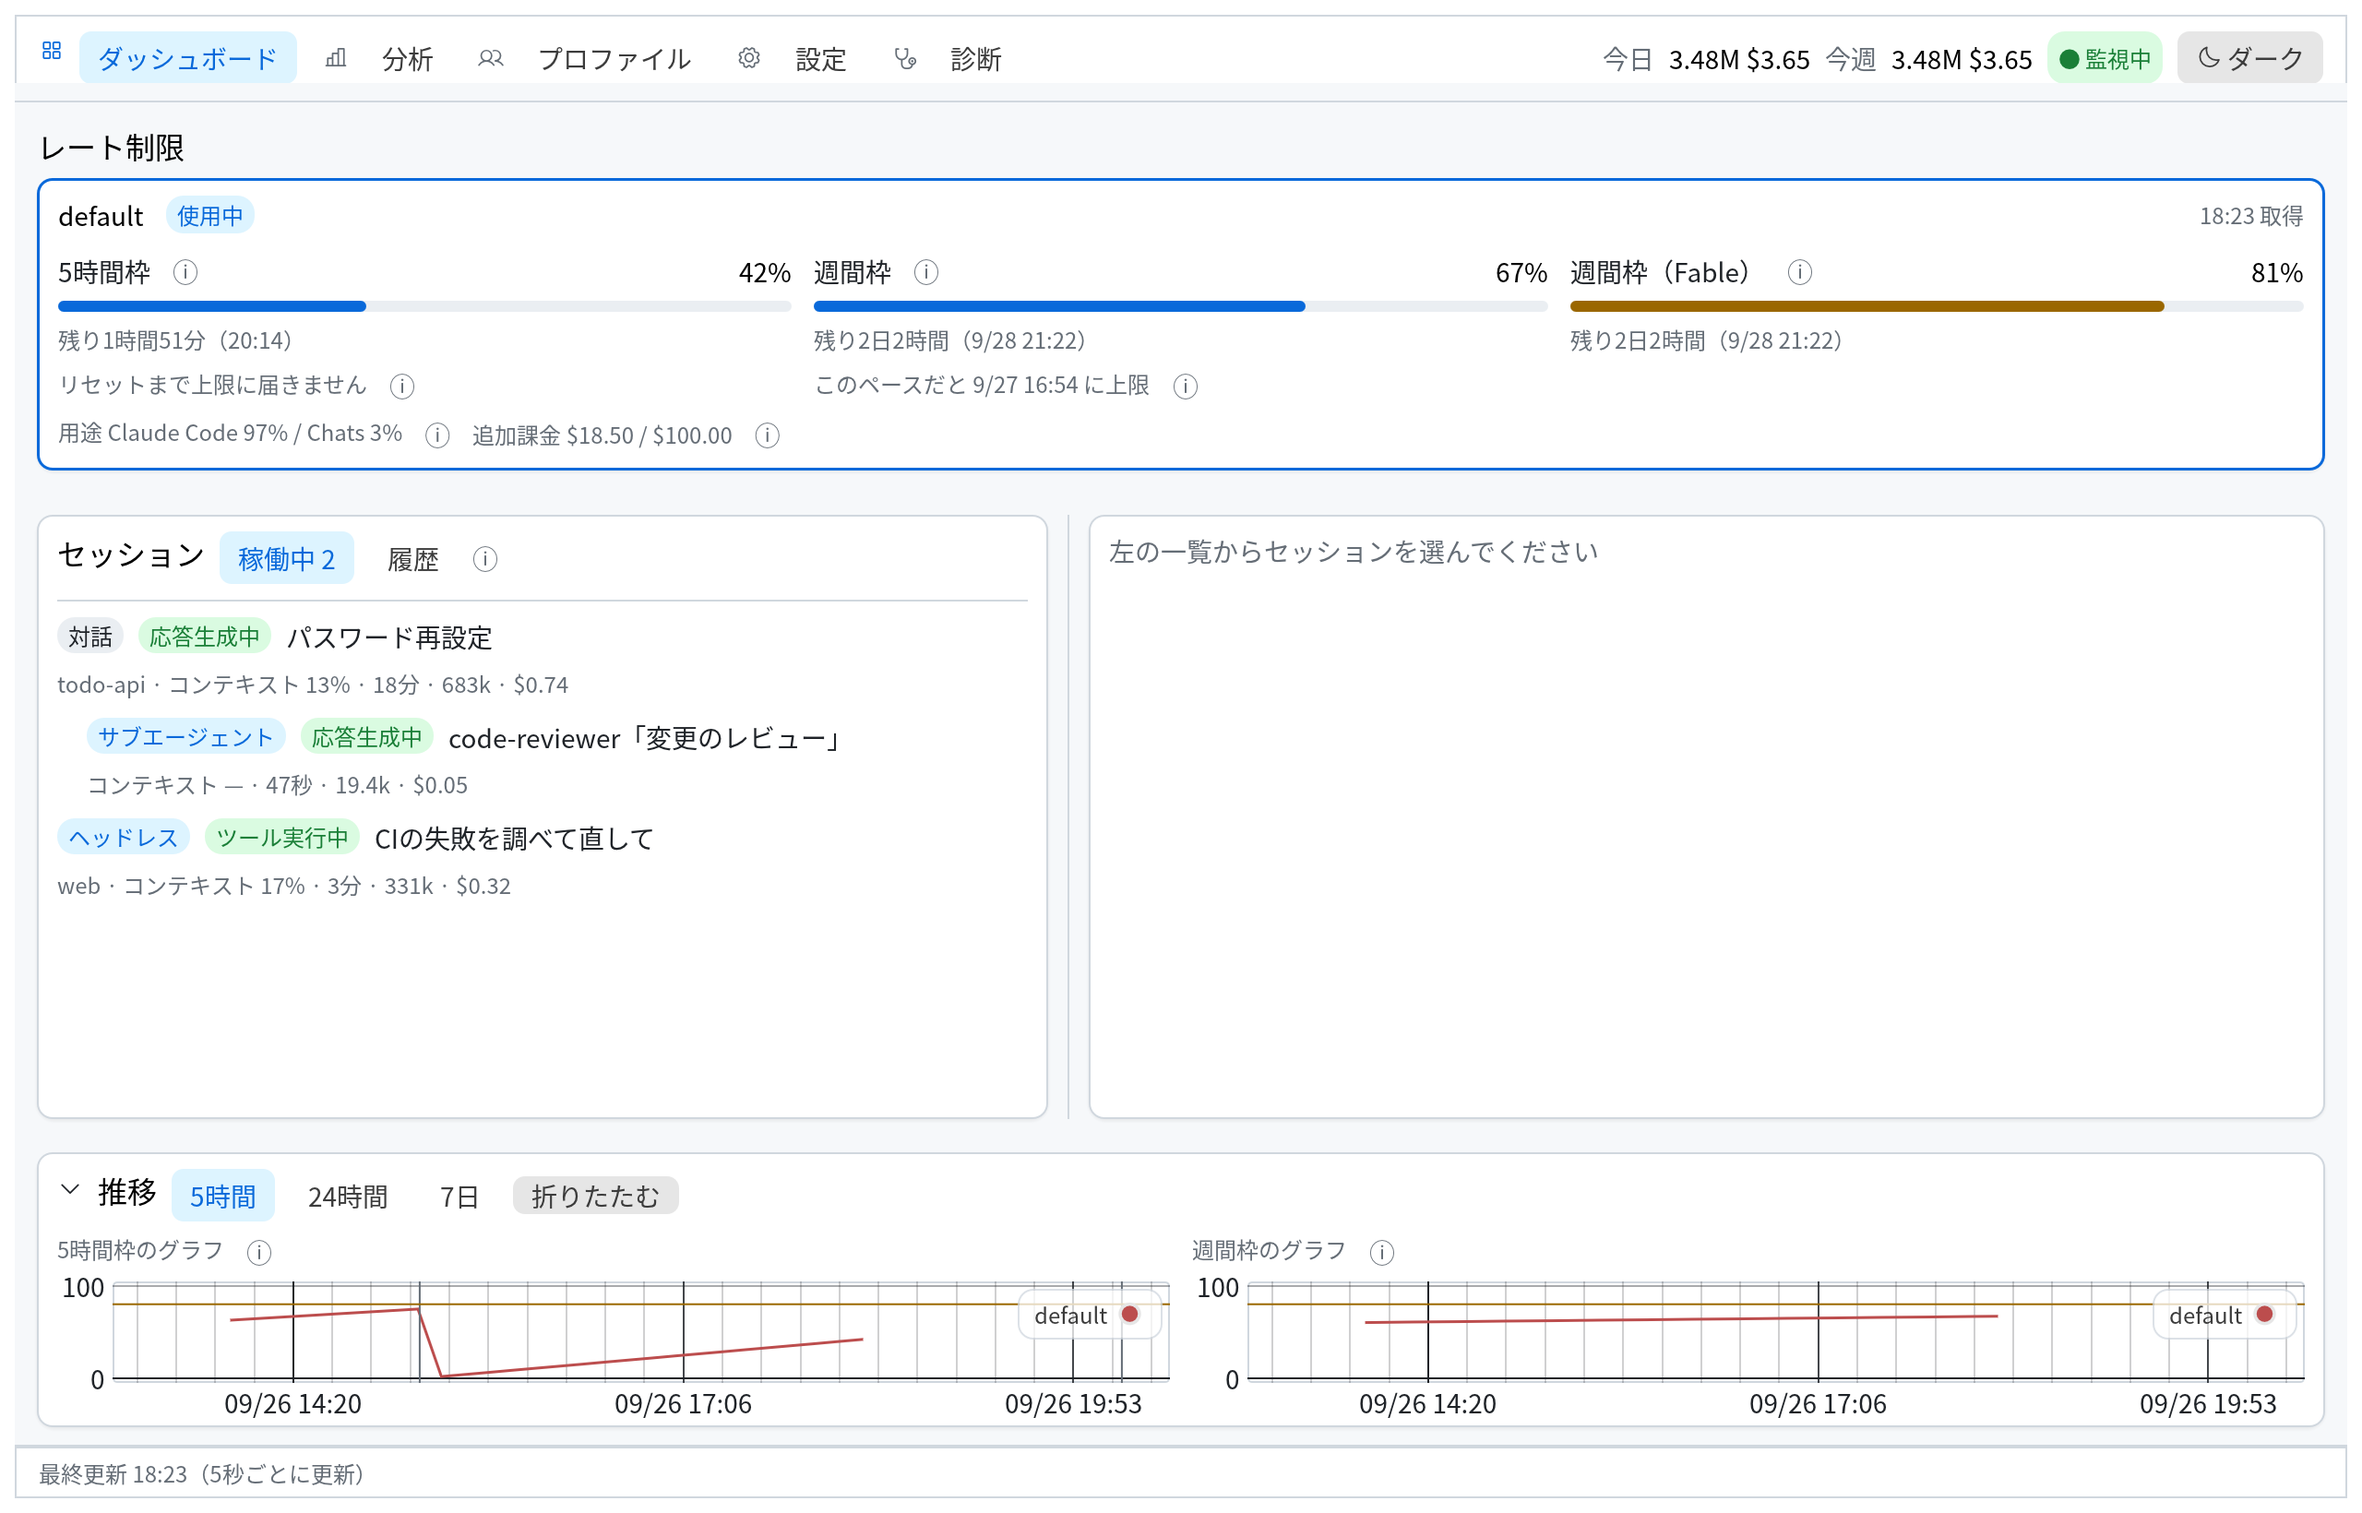
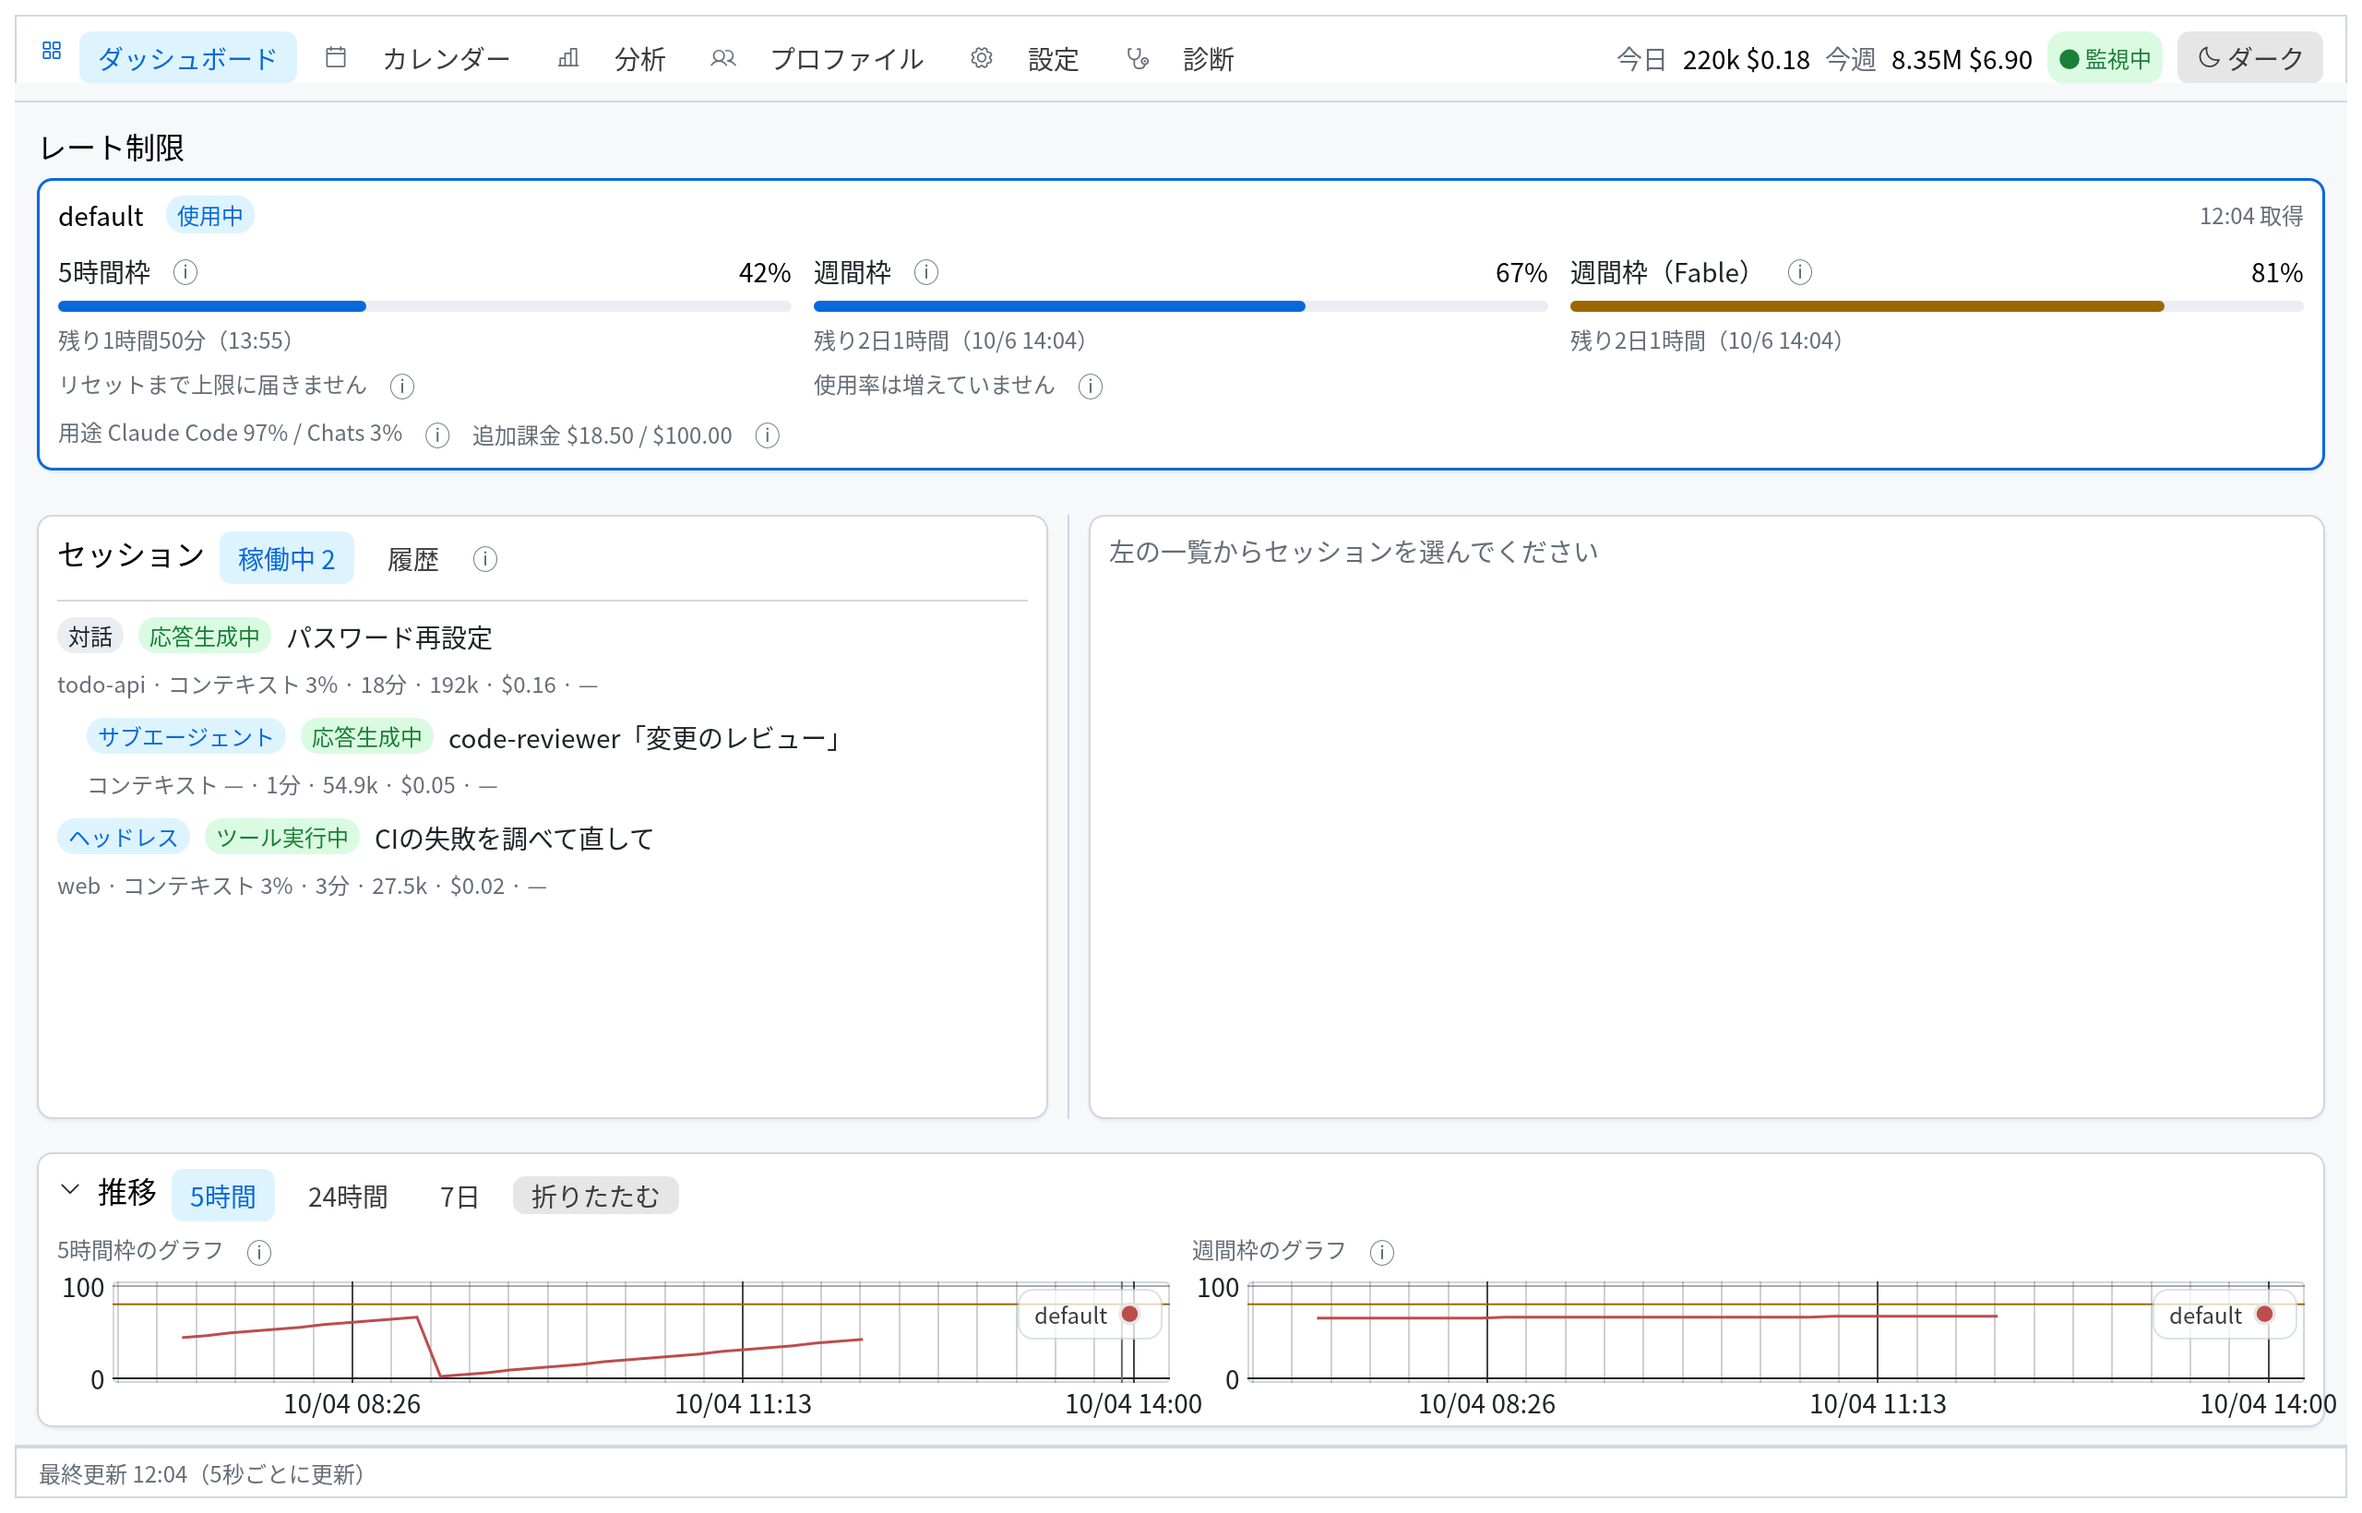
docs: 架空データからREADMEの画像を作り直し、カレンダーの画像を足す

diff --git a/examples/demo_data.rs b/examples/demo_data.rs
@@ -1,0 +1,324 @@
+//! README用の画像に使う架空データを作る。実在の利用者のデータを写さず、同じ手順で何度でも作り直せるようにするため。
+//!
+//! Claude Codeと同じ形のログをHOMEに書き、デーモンと同じ取り込み処理でDBに入れる。
+//! 稼働中の判定は最終更新からの経過時間で決まるので、作った直後に画像を書き出す。
+//! `cargo run --example demo_data -- <DBを置くディレクトリ> <HOME>`
+use chrono::{DateTime, Datelike, Duration, Local, TimeZone, Utc};
+use claude_usage_monitor::controllers::daemon::ingest::Ingestor;
+use claude_usage_monitor::models::domain::usage::parse_usage;
+use claude_usage_monitor::models::gateways::process::{SysProcessInfo, SystemClock};
+use claude_usage_monitor::models::ports::{ProfileRepo, UsageRepo};
+use claude_usage_monitor::models::repositories::db::{SqliteStore, ts};
+use std::io::Write;
+use std::path::{Path, PathBuf};
+use std::sync::Arc;
+
+const MODEL: &str = "claude-opus-5-5";
+
+fn main() {
+    let args: Vec<String> = std::env::args().collect();
+    let [_, data, home] = args.as_slice() else {
+        eprintln!("usage: demo_data <DBを置くディレクトリ> <HOME>");
+        std::process::exit(2);
+    };
+    let (data, home) = (PathBuf::from(data), PathBuf::from(home));
+    std::fs::create_dir_all(&data).unwrap();
+    let cfg = home.join(".claude");
+    let now = Utc::now();
+
+    let store = Arc::new(SqliteStore::open(&data.join("cumon.db")).unwrap());
+    let profile = store.ensure_default().unwrap();
+    usage(&store, profile.id, now);
+    week(&cfg, now);
+    active(&cfg, now);
+
+    let ing = Ingestor::new(
+        store.clone(),
+        store.clone(),
+        Arc::new(SysProcessInfo::new()),
+        Arc::new(SystemClock),
+        Duration::days(90),
+    );
+    ing.scan_all(&profile, &cfg).unwrap();
+    ing.ingest_live_state(&profile, &cfg).unwrap();
+    println!("{}\n{}", data.display(), home.display());
+}
+
+/// 5時間枠と週間枠の推移。10分ごとに7日分の取得結果を入れる。
+fn usage(store: &SqliteStore, profile_id: i64, now: DateTime<Utc>) {
+    let five_reset = now + Duration::minutes(111);
+    let week_reset = now + Duration::hours(50);
+    for i in (0..7 * 24 * 6).rev() {
+        let at = now - Duration::minutes(10 * i);
+        // 5時間枠は枠の切り替わりで0に戻るので、切り替わりからの経過に比例させる。
+        let into = 300 - (five_reset - at).num_minutes().rem_euclid(300);
+        let five = 42.0 * into as f64 / 189.0;
+        let weekly = 67.0 - 0.07 * (now - at).num_minutes() as f64 / 10.0;
+        let body = format!(
+            r#"{{"five_hour":{{"utilization":{five:.1},"resets_at":"{fr}"}},
+ "limits":[
+  {{"kind":"session","group":"session","percent":{five:.0},"severity":"normal","resets_at":"{fr}","scope":null,"is_active":false}},
+  {{"kind":"weekly_all","group":"weekly","percent":{weekly:.0},"severity":"normal","resets_at":"{wr}","scope":null,"is_active":false}},
+  {{"kind":"weekly_scoped","group":"weekly","percent":{fable:.0},"severity":"warning","resets_at":"{wr}","scope":{{"model":{{"id":null,"display_name":"Fable"}},"surface":null}},"is_active":true}}],
+ "spend":{{"used":{{"amount_minor":1850,"currency":"USD","exponent":2}},"limit":{{"amount_minor":10000,"currency":"USD","exponent":2}},"percent":18,"severity":"normal","enabled":true}},
+ "seven_day_breakdown":{{"as_of":"{fr}","rows":[
+  {{"key":"claude_code","display_name":"Claude Code","percent":97}},
+  {{"key":"chat","display_name":"Chats","percent":3}}]}}}}"#,
+            fr = five_reset.to_rfc3339(),
+            wr = week_reset.to_rfc3339(),
+            fable = weekly + 14.0,
+        );
+        store
+            .record_snapshot(profile_id, at, &parse_usage(&body).unwrap())
+            .unwrap();
+    }
+}
+
+/// カレンダー用に、前の週の過去のセッションを入れる。
+fn week(cfg: &Path, now: DateTime<Utc>) {
+    let projects = [
+        ("todo-api", "認証まわりの整理"),
+        ("web", "トップページの表示を速くする"),
+        ("docs-site", "リリースノートを書く"),
+        ("mobile-app", "通知の設定画面を足す"),
+    ];
+    // 曜日によって写る日数が変わらないよう、前の週の日曜から土曜までに入れ、画像では前週を開く。
+    let today = now.with_timezone(&Local).date_naive();
+    let sunday = today - Duration::days(i64::from(today.weekday().num_days_from_sunday()) + 7);
+    for back in 0..7 {
+        let day = sunday + Duration::days(back);
+        let base = Local
+            .from_local_datetime(&day.and_hms_opt(9, 0, 0).unwrap())
+            .unwrap()
+            .with_timezone(&Utc);
+        for (i, (proj, prompt)) in projects.iter().enumerate() {
+            // 日と案件で始まりをずらし、同じ時間帯に帯が重なる日も作る。最初に見える15時までに収める。
+            let start = base + Duration::minutes(100 * i as i64 + 20 * (back % 3));
+            let sid = format!("w{back}-{i}");
+            let turns = 6 + (back as usize + i) % 5;
+            let lines = session(&sid, proj, "cli", prompt, start, turns, 3);
+            write(
+                &cfg.join(format!("projects/-home-you-src-{proj}/{sid}.jsonl")),
+                &lines,
+            );
+            if (back + i as i64) % 2 == 0 {
+                let later = start + Duration::minutes(150);
+                let sid2 = format!("{sid}b");
+                let lines = session(&sid2, proj, "cli", "続きの作業", later, turns, 4);
+                write(
+                    &cfg.join(format!("projects/-home-you-src-{proj}/{sid2}.jsonl")),
+                    &lines,
+                );
+            }
+        }
+    }
+}
+
+/// ダッシュボード用の稼働中のセッション。対話とそのサブエージェント、ヘッドレスの3つ。
+fn active(cfg: &Path, now: DateTime<Utc>) {
+    let sid = "demo-reset";
+    let start = now - Duration::minutes(18);
+    let proj = cfg.join("projects/-home-you-src-todo-api");
+    let mut lines = vec![user(
+        sid,
+        "todo-api",
+        "cli",
+        start,
+        "パスワードの再設定を追加して",
+    )];
+    lines.push(tool(
+        sid,
+        "todo-api",
+        "cli",
+        start + Duration::seconds(40),
+        "m1",
+        "Read",
+        r#"{"file_path":"src/auth/mod.rs"}"#,
+    ));
+    lines.push(tool(
+        sid,
+        "todo-api",
+        "cli",
+        now - Duration::seconds(100),
+        "m2",
+        "Edit",
+        r#"{"file_path":"src/auth/reset.rs"}"#,
+    ));
+    lines.push(tool(
+        sid,
+        "todo-api",
+        "cli",
+        now - Duration::seconds(88),
+        "m3",
+        "Bash",
+        r#"{"command":"cargo test auth::"}"#,
+    ));
+    lines.push(tool(
+        sid,
+        "todo-api",
+        "cli",
+        now - Duration::seconds(60),
+        "m4",
+        "Agent",
+        r#"{"subagent_type":"code-reviewer","description":"変更のレビュー"}"#,
+    ));
+    lines.push(text(
+        sid,
+        "todo-api",
+        "cli",
+        now - Duration::seconds(8),
+        "m5",
+        "パスワードの再設定を追加し、テストが通りました",
+    ));
+    write(&proj.join(format!("{sid}.jsonl")), &lines);
+
+    let sub = proj.join(format!("{sid}/subagents/agent-r1.jsonl"));
+    write(
+        &sub,
+        &[
+            tool(
+                sid,
+                "todo-api",
+                "cli",
+                now - Duration::seconds(50),
+                "s1",
+                "Read",
+                r#"{"file_path":"src/auth/reset.rs"}"#,
+            ),
+            text(
+                sid,
+                "todo-api",
+                "cli",
+                now - Duration::seconds(30),
+                "s2",
+                "指摘は2件です",
+            ),
+        ],
+    );
+    std::fs::write(
+        sub.with_extension("meta.json"),
+        r#"{"agentType":"code-reviewer","description":"変更のレビュー","spawnDepth":1}"#,
+    )
+    .unwrap();
+
+    // 稼働中かどうかはプロセスの生存で決まるので、このプログラムのPIDを書く。取り込みの時点で生きていれば足りる。
+    std::fs::create_dir_all(cfg.join("sessions")).unwrap();
+    std::fs::write(
+        cfg.join("sessions/demo.json"),
+        format!(
+            r#"{{"pid":{pid},"sessionId":"{sid}","cwd":"/home/you/src/todo-api","name":"パスワード再設定","status":"busy","startedAt":{s},"updatedAt":{u}}}"#,
+            pid = std::process::id(),
+            s = start.timestamp_millis(),
+            u = now.timestamp_millis(),
+        ),
+    )
+    .unwrap();
+
+    let hl = "demo-ci";
+    let t = now - Duration::minutes(3);
+    write(
+        &cfg.join(format!("projects/-home-you-src-web/{hl}.jsonl")),
+        &[
+            user(hl, "web", "sdk-cli", t, "CIの失敗を調べて直して"),
+            tool(
+                hl,
+                "web",
+                "sdk-cli",
+                now - Duration::seconds(20),
+                "h1",
+                "Bash",
+                r#"{"command":"npm test"}"#,
+            ),
+        ],
+    );
+}
+
+/// 過去のセッション1つ分。`gap`分ごとに、ツールと本文を交互に並べる。
+fn session(
+    sid: &str,
+    proj: &str,
+    entry: &str,
+    prompt: &str,
+    start: DateTime<Utc>,
+    turns: usize,
+    gap: i64,
+) -> Vec<String> {
+    let mut lines = vec![user(sid, proj, entry, start, prompt)];
+    for k in 0..turns {
+        let at = start + Duration::minutes(gap * (k as i64 + 1));
+        let id = format!("{sid}-{k}");
+        lines.push(if k % 2 == 0 {
+            tool(
+                sid,
+                proj,
+                entry,
+                at,
+                &id,
+                "Read",
+                r#"{"file_path":"src/lib.rs"}"#,
+            )
+        } else {
+            text(sid, proj, entry, at, &id, "確認しました")
+        });
+    }
+    lines
+}
+
+fn user(sid: &str, proj: &str, entry: &str, at: DateTime<Utc>, prompt: &str) -> String {
+    format!(
+        r#"{{"type":"user","uuid":"{sid}-u","sessionId":"{sid}","cwd":"/home/you/src/{proj}","gitBranch":"main","entrypoint":"{entry}","timestamp":"{t}","message":{{"role":"user","content":"{prompt}"}}}}"#,
+        t = ts(at)
+    )
+}
+
+fn tool(
+    sid: &str,
+    proj: &str,
+    entry: &str,
+    at: DateTime<Utc>,
+    id: &str,
+    name: &str,
+    input: &str,
+) -> String {
+    assistant(
+        sid,
+        proj,
+        entry,
+        at,
+        id,
+        &format!(r#"{{"type":"tool_use","id":"toolu_{id}","name":"{name}","input":{input}}}"#),
+    )
+}
+
+fn text(sid: &str, proj: &str, entry: &str, at: DateTime<Utc>, id: &str, body: &str) -> String {
+    assistant(
+        sid,
+        proj,
+        entry,
+        at,
+        id,
+        &format!(r#"{{"type":"text","text":"{body}"}}"#),
+    )
+}
+
+fn assistant(
+    sid: &str,
+    proj: &str,
+    entry: &str,
+    at: DateTime<Utc>,
+    id: &str,
+    content: &str,
+) -> String {
+    format!(
+        r#"{{"type":"assistant","sessionId":"{sid}","cwd":"/home/you/src/{proj}","gitBranch":"main","entrypoint":"{entry}","timestamp":"{t}","message":{{"id":"{id}","model":"{MODEL}","content":[{content}],"usage":{{"input_tokens":1800,"output_tokens":160,"cache_read_input_tokens":24000,"cache_creation_input_tokens":1500}}}}}}"#,
+        t = ts(at)
+    )
+}
+
+fn write(path: &Path, lines: &[String]) {
+    std::fs::create_dir_all(path.parent().unwrap()).unwrap();
+    let mut f = std::fs::File::create(path).unwrap();
+    for l in lines {
+        writeln!(f, "{l}").unwrap();
+    }
+}

diff --git a/tests/readme_images.rs b/tests/readme_images.rs
@@ -81,4 +81,18 @@ fn write_readme_images() {
     h.event(egui::Event::PointerGone);
     h.run();
     save(&mut h, &out, "dashboard-live-log.png");
+    h.get_by_label("カレンダー").click();
+    h.run();
+    // 架空データは曜日によらず7日分そろうよう、前の週に入れてある。
+    h.get_by_label_contains("前週").click();
+    h.run();
+    // 帯は説明の1行目にセッションの見出しを持つので、その文言で1本を選ぶ。
+    h.get_all_by_label_contains("トップページの表示を速くする")
+        .next()
+        .expect("カレンダーの帯")
+        .click();
+    h.run();
+    h.event(egui::Event::PointerGone);
+    h.run();
+    save(&mut h, &out, "calendar.png");
 }
